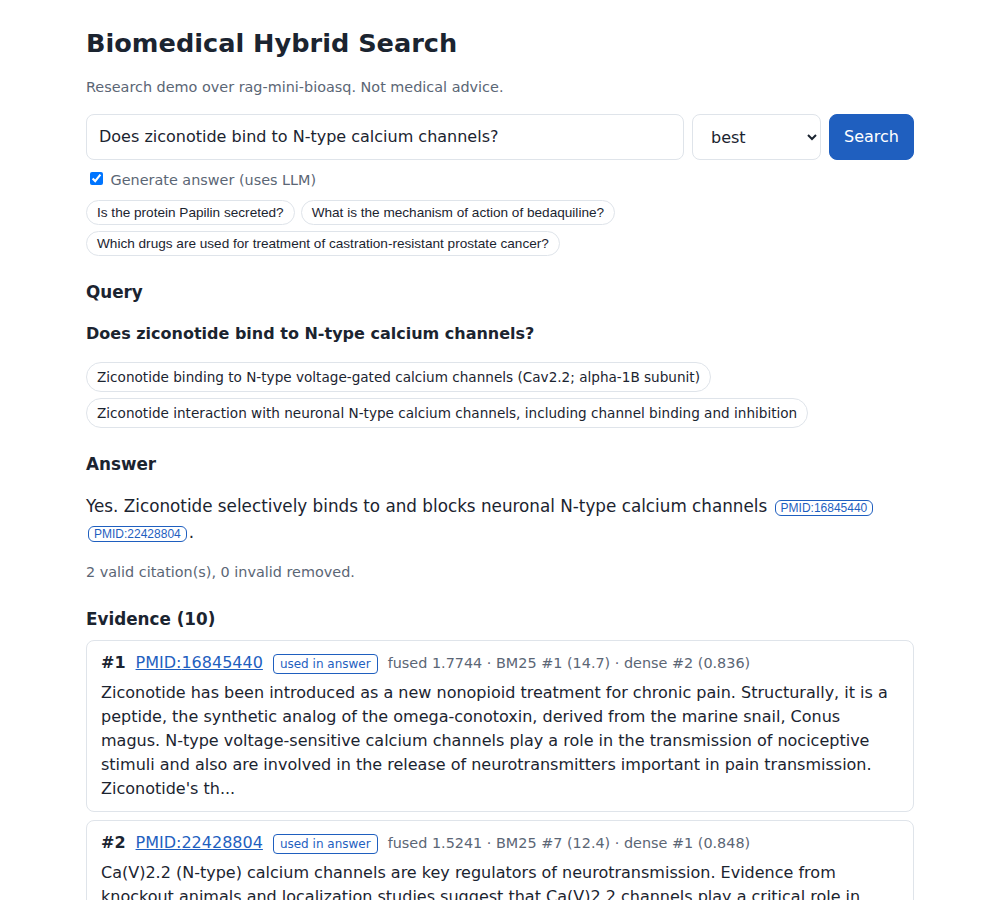
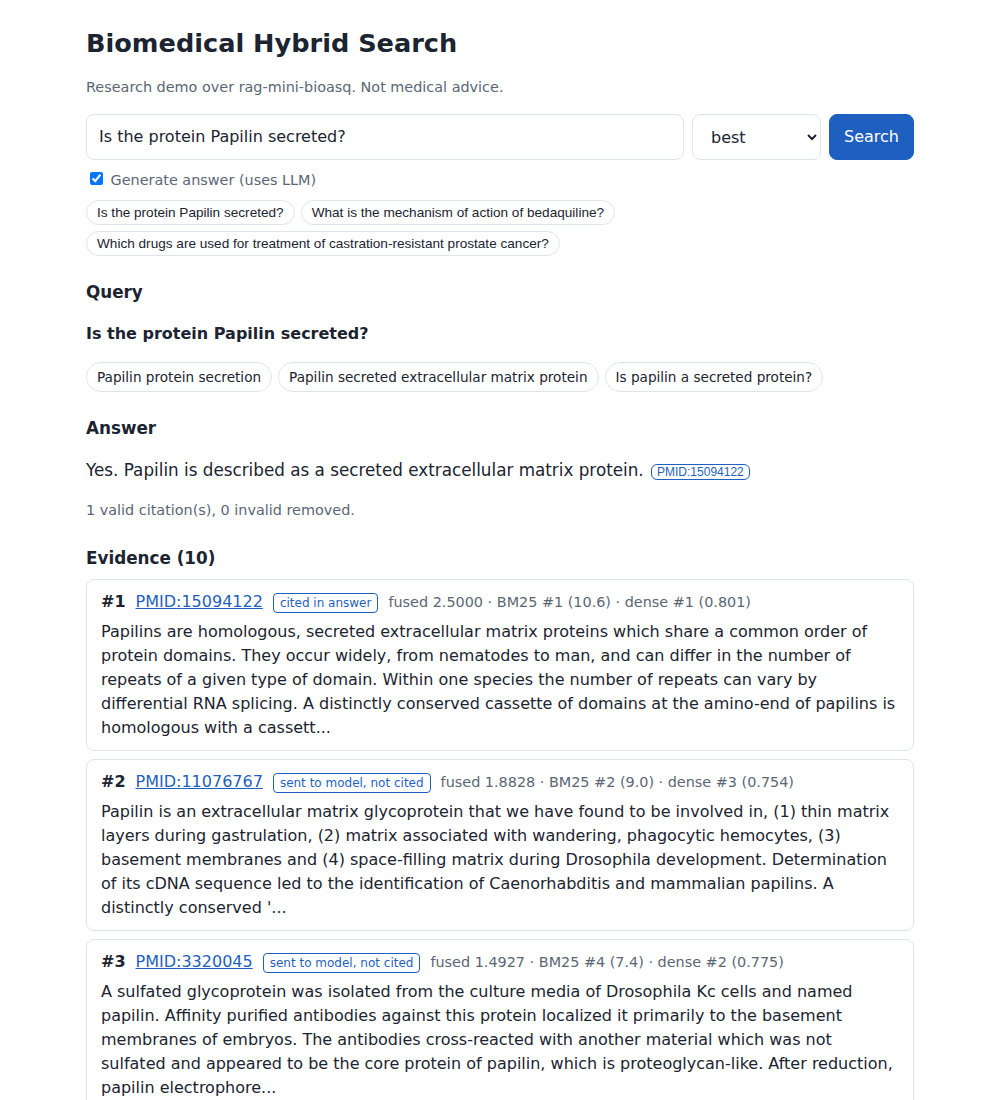
UI: show 'cited' badge only for cited passages; none when evidence is insufficient
Claude-Session: https://claude.ai/code/session_01GNaBCr1zm6HaKdnvXWEcNj

diff --git a/frontend/src/App.tsx b/frontend/src/App.tsx
@@ -59,7 +59,9 @@ export default function App() {
             <article key={h.pmid} id={`hit-${h.pmid}`} className={"hit" + (hl === h.pmid ? " hl" : "")}>
               <div className="row"><b>#{h.rank}</b>
                 <a href={h.source_url} target="_blank" rel="noreferrer">PMID:{h.pmid}</a>
-                {h.selected_for_context && <span className="tag">used in answer</span>}
+                {a?.status === "answered" && a.valid.includes(h.pmid)
+                  ? <span className="tag">cited in answer</span>
+                  : a?.status === "answered" && h.selected_for_context && <span className="tag muted">sent to model, not cited</span>}
                 <span className="muted">fused {h.score.toFixed(4)}
                   {h.lexical && ` · BM25 #${h.lexical[0]} (${h.lexical[1].toFixed(1)})`}
                   {h.dense && ` · dense #${h.dense[0]} (${h.dense[1].toFixed(3)})`}</span></div>
